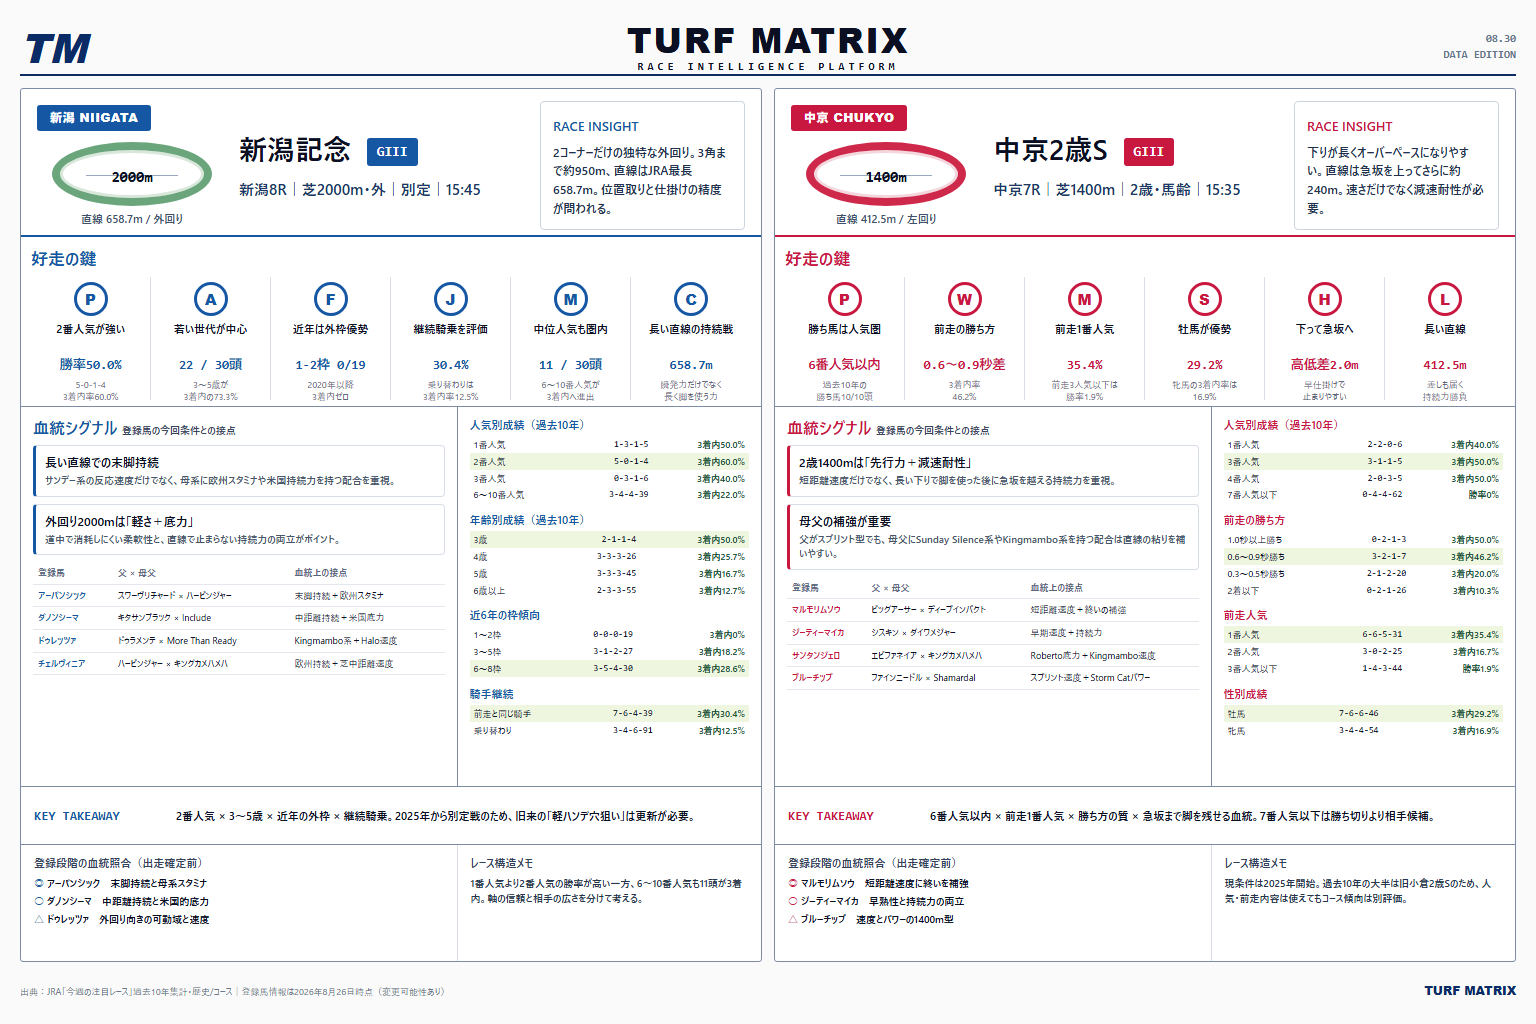
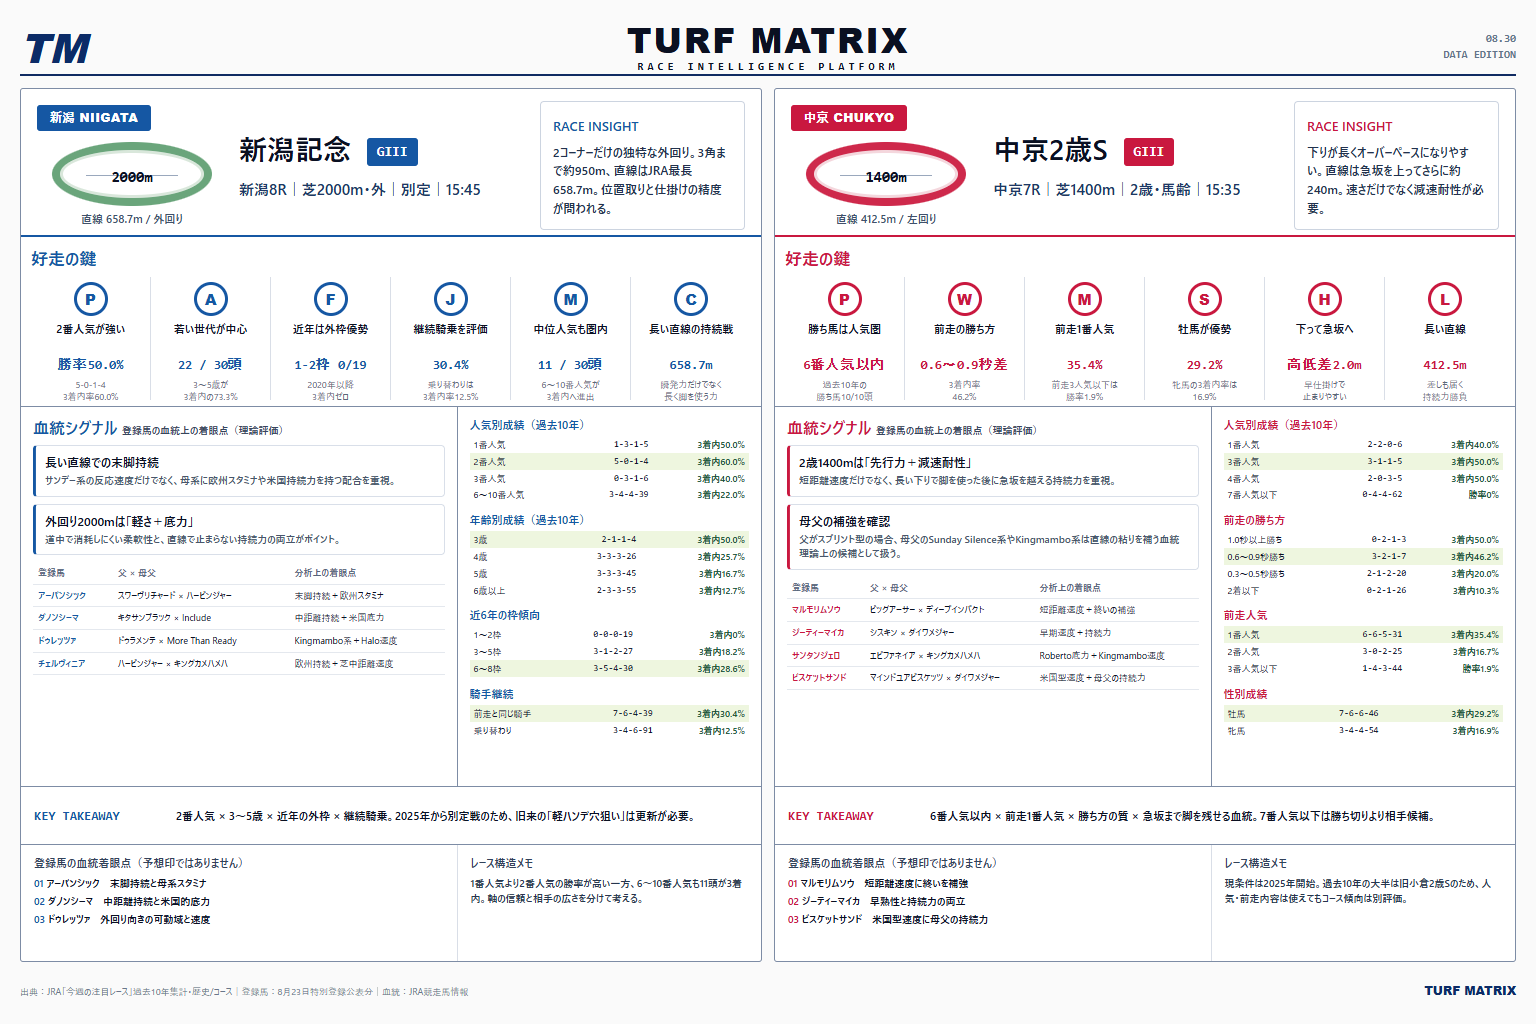
Correct graded race social data

diff --git a/turf-matrix/docs/social/2026-08-30-graded-race-data.html b/turf-matrix/docs/social/2026-08-30-graded-race-data.html
@@ -96,10 +96,10 @@
         </div>
         <div class="data-zone">
           <div class="blood">
-            <h3 class="subhead">血統シグナル <span>登録馬の今回条件との接点</span></h3>
+            <h3 class="subhead">血統シグナル <span>登録馬の血統上の着眼点（理論評価）</span></h3>
             <div class="signal-card"><strong>長い直線での末脚持続</strong><p>サンデー系の反応速度だけでなく、母系に欧州スタミナや米国持続力を持つ配合を重視。</p></div>
             <div class="signal-card"><strong>外回り2000mは「軽さ＋底力」</strong><p>道中で消耗しにくい柔軟性と、直線で止まらない持続力の両立がポイント。</p></div>
-            <table class="blood-table"><thead><tr><th>登録馬</th><th>父 × 母父</th><th>血統上の接点</th></tr></thead><tbody>
+            <table class="blood-table"><thead><tr><th>登録馬</th><th>父 × 母父</th><th>分析上の着眼点</th></tr></thead><tbody>
               <tr><td>アーバンシック</td><td>スワーヴリチャード × ハービンジャー</td><td>末脚持続＋欧州スタミナ</td></tr>
               <tr><td>ダノンシーマ</td><td>キタサンブラック × Include</td><td>中距離持続＋米国底力</td></tr>
               <tr><td>ドゥレッツァ</td><td>ドゥラメンテ × More Than Ready</td><td>Kingmambo系＋Halo速度</td></tr>
@@ -114,7 +114,7 @@
           </div>
         </div>
         <div class="takeaway"><b>KEY TAKEAWAY</b><p>2番人気 × 3〜5歳 × 近年の外枠 × 継続騎乗。2025年から別定戦のため、旧来の「軽ハンデ穴狙い」は更新が必要。</p></div>
-        <div class="bottom"><div class="candidates"><h4>登録段階の血統照合（出走確定前）</h4><div class="candidate"><span>◎</span> アーバンシック　末脚持続と母系スタミナ</div><div class="candidate"><span>○</span> ダノンシーマ　中距離持続と米国的底力</div><div class="candidate"><span>△</span> ドゥレッツァ　外回り向きの可動域と速度</div></div><div class="market"><h4>レース構造メモ</h4><p>1番人気より2番人気の勝率が高い一方、6〜10番人気も11頭が3着内。軸の信頼と相手の広さを分けて考える。</p></div></div>
+        <div class="bottom"><div class="candidates"><h4>登録馬の血統着眼点（予想印ではありません）</h4><div class="candidate"><span>01</span> アーバンシック　末脚持続と母系スタミナ</div><div class="candidate"><span>02</span> ダノンシーマ　中距離持続と米国的底力</div><div class="candidate"><span>03</span> ドゥレッツァ　外回り向きの可動域と速度</div></div><div class="market"><h4>レース構造メモ</h4><p>1番人気より2番人気の勝率が高い一方、6〜10番人気も11頭が3着内。軸の信頼と相手の広さを分けて考える。</p></div></div>
       </section>
 
       <section class="race red">
@@ -136,14 +136,14 @@
         </div>
         <div class="data-zone">
           <div class="blood">
-            <h3 class="subhead">血統シグナル <span>登録馬の今回条件との接点</span></h3>
+            <h3 class="subhead">血統シグナル <span>登録馬の血統上の着眼点（理論評価）</span></h3>
             <div class="signal-card"><strong>2歳1400mは「先行力＋減速耐性」</strong><p>短距離速度だけでなく、長い下りで脚を使った後に急坂を越える持続力を重視。</p></div>
-            <div class="signal-card"><strong>母父の補強が重要</strong><p>父がスプリント型でも、母父にSunday Silence系やKingmambo系を持つ配合は直線の粘りを補いやすい。</p></div>
-            <table class="blood-table"><thead><tr><th>登録馬</th><th>父 × 母父</th><th>血統上の接点</th></tr></thead><tbody>
+            <div class="signal-card"><strong>母父の補強を確認</strong><p>父がスプリント型の場合、母父のSunday Silence系やKingmambo系は直線の粘りを補う血統理論上の候補として扱う。</p></div>
+            <table class="blood-table"><thead><tr><th>登録馬</th><th>父 × 母父</th><th>分析上の着眼点</th></tr></thead><tbody>
               <tr><td>マルモリムソウ</td><td>ビッグアーサー × ディープインパクト</td><td>短距離速度＋終いの補強</td></tr>
               <tr><td>ジーティーマイカ</td><td>シスキン × ダイワメジャー</td><td>早期速度＋持続力</td></tr>
               <tr><td>サンタンジェロ</td><td>エピファネイア × キングカメハメハ</td><td>Roberto底力＋Kingmambo速度</td></tr>
-              <tr><td>ブルーチップ</td><td>ファインニードル × Shamardal</td><td>スプリント速度＋Storm Catパワー</td></tr>
+              <tr><td>ビスケットサンド</td><td>マインドユアビスケッツ × ダイワメジャー</td><td>米国型速度＋母父の持続力</td></tr>
             </tbody></table>
           </div>
           <div class="stats">
@@ -154,10 +154,10 @@
           </div>
         </div>
         <div class="takeaway"><b>KEY TAKEAWAY</b><p>6番人気以内 × 前走1番人気 × 勝ち方の質 × 急坂まで脚を残せる血統。7番人気以下は勝ち切りより相手候補。</p></div>
-        <div class="bottom"><div class="candidates"><h4>登録段階の血統照合（出走確定前）</h4><div class="candidate"><span>◎</span> マルモリムソウ　短距離速度に終いを補強</div><div class="candidate"><span>○</span> ジーティーマイカ　早熟性と持続力の両立</div><div class="candidate"><span>△</span> ブルーチップ　速度とパワーの1400m型</div></div><div class="market"><h4>レース構造メモ</h4><p>現条件は2025年開始。過去10年の大半は旧小倉2歳Sのため、人気・前走内容は使えてもコース傾向は別評価。</p></div></div>
+        <div class="bottom"><div class="candidates"><h4>登録馬の血統着眼点（予想印ではありません）</h4><div class="candidate"><span>01</span> マルモリムソウ　短距離速度に終いを補強</div><div class="candidate"><span>02</span> ジーティーマイカ　早熟性と持続力の両立</div><div class="candidate"><span>03</span> ビスケットサンド　米国型速度に母父の持続力</div></div><div class="market"><h4>レース構造メモ</h4><p>現条件は2025年開始。過去10年の大半は旧小倉2歳Sのため、人気・前走内容は使えてもコース傾向は別評価。</p></div></div>
       </section>
     </div>
-    <footer class="footer"><div>出典：JRA「今週の注目レース」過去10年集計・歴史/コース｜登録馬情報は2026年8月26日時点（変更可能性あり）</div><strong>TURF MATRIX</strong></footer>
+    <footer class="footer"><div>出典：JRA「今週の注目レース」過去10年集計・歴史/コース｜登録馬：8月23日特別登録公表分｜血統：JRA競走馬情報</div><strong>TURF MATRIX</strong></footer>
   </main>
 </body>
 </html>
